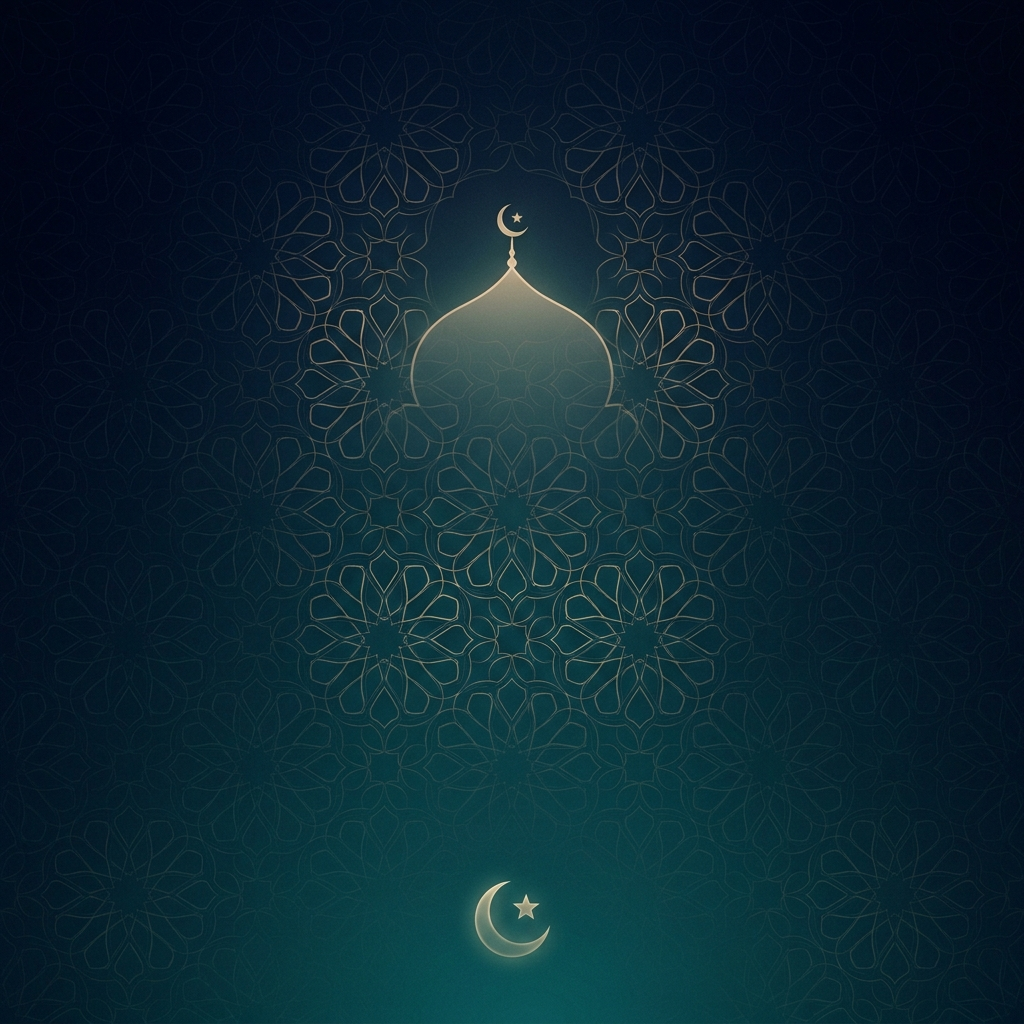
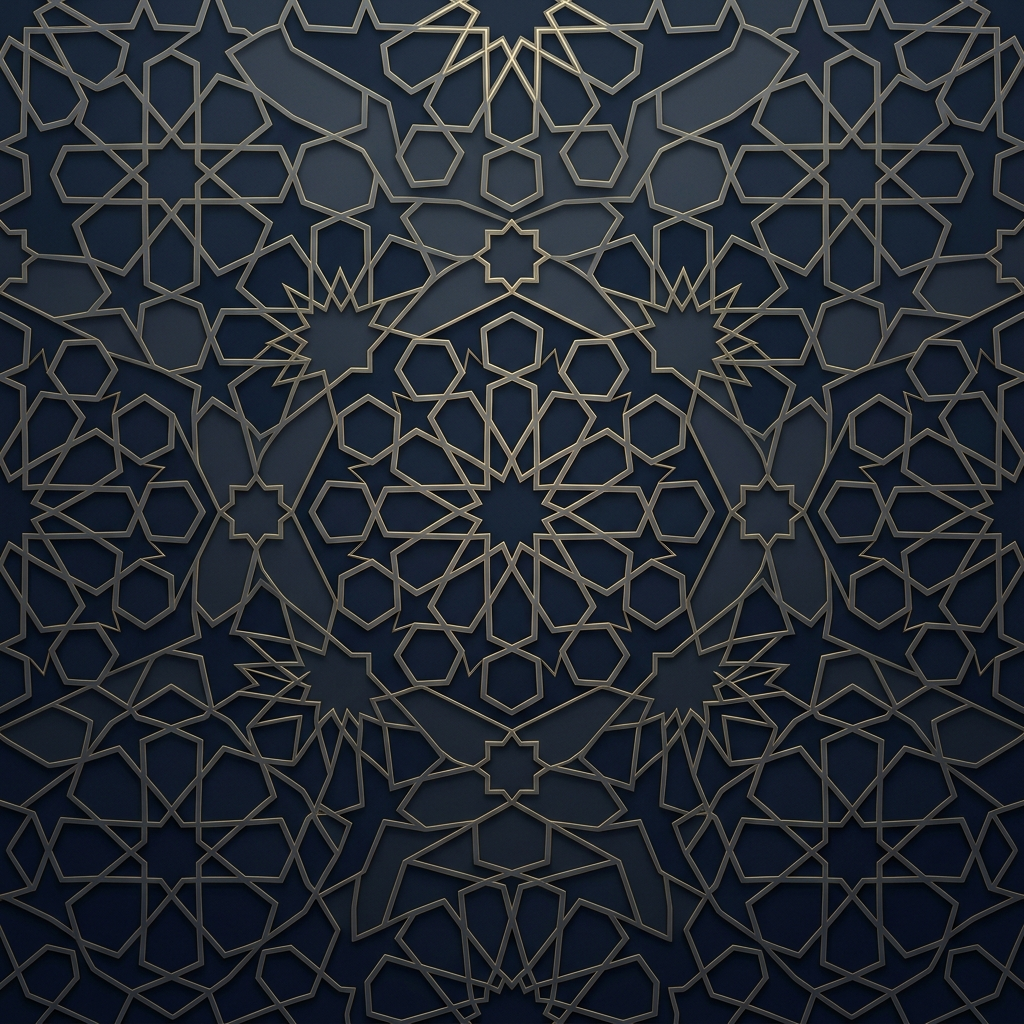
feat: implement Zikir dashboard page with custom background and menu grid

diff --git a/resources/views/dzikir/index.blade.php b/resources/views/dzikir/index.blade.php
@@ -3,11 +3,14 @@
 @section('title', 'Zikir Online')
 
 @section('content')
-    <div class="content-wrapper zikir-menu-wrapper" style="min-height: calc(100vh - 70px); padding: 20px 15px;">
+    <div class="content-wrapper zikir-menu-wrapper" style="min-height: calc(100vh - 70px); padding: 20px 15px; background-image: url('{{ asset('images/islamic_bg.png') }}'); background-size: cover; background-position: center; background-attachment: fixed;">
         
+        {{-- Overlay to ensure text readability --}}
+        <div class="zikir-overlay" style="position: absolute; top: 0; left: 0; right: 0; bottom: 0; background: linear-gradient(to bottom, rgba(15, 23, 42, 0.8), rgba(15, 23, 42, 0.95)); z-index: 0; pointer-events: none;"></div>
+
         <div class="container-fluid" style="position: relative; z-index: 1; max-width: 600px; margin: 0 auto; color: white;">
             
-            <h5 class="text-uppercase font-weight-bold mb-4 mt-2" style="letter-spacing: 1.5px; font-size: 0.9rem; opacity: 0.9;">
+            <h5 class="text-uppercase font-weight-bold mb-4 mt-2" style="letter-spacing: 1.5px; font-size: 0.95rem; opacity: 1;">
                 Zikir
             </h5>
 
@@ -65,7 +68,7 @@
                 </div>
             </div>
 
-            <h5 class="font-weight-bold mb-3 mt-4" style="font-size: 1rem; opacity: 0.95;">
+            <h5 class="font-weight-bold mb-3 mt-4" style="font-size: 1.05rem; opacity: 1;">
                 Aktivitas Anda
             </h5>
 
@@ -162,7 +165,7 @@
                 margin-bottom: auto !important;
             }
             .text-muted {
-                color: #94a3b8 !important;
+                color: #cbd5e1 !important;
             }
         </style>
     @endpush
